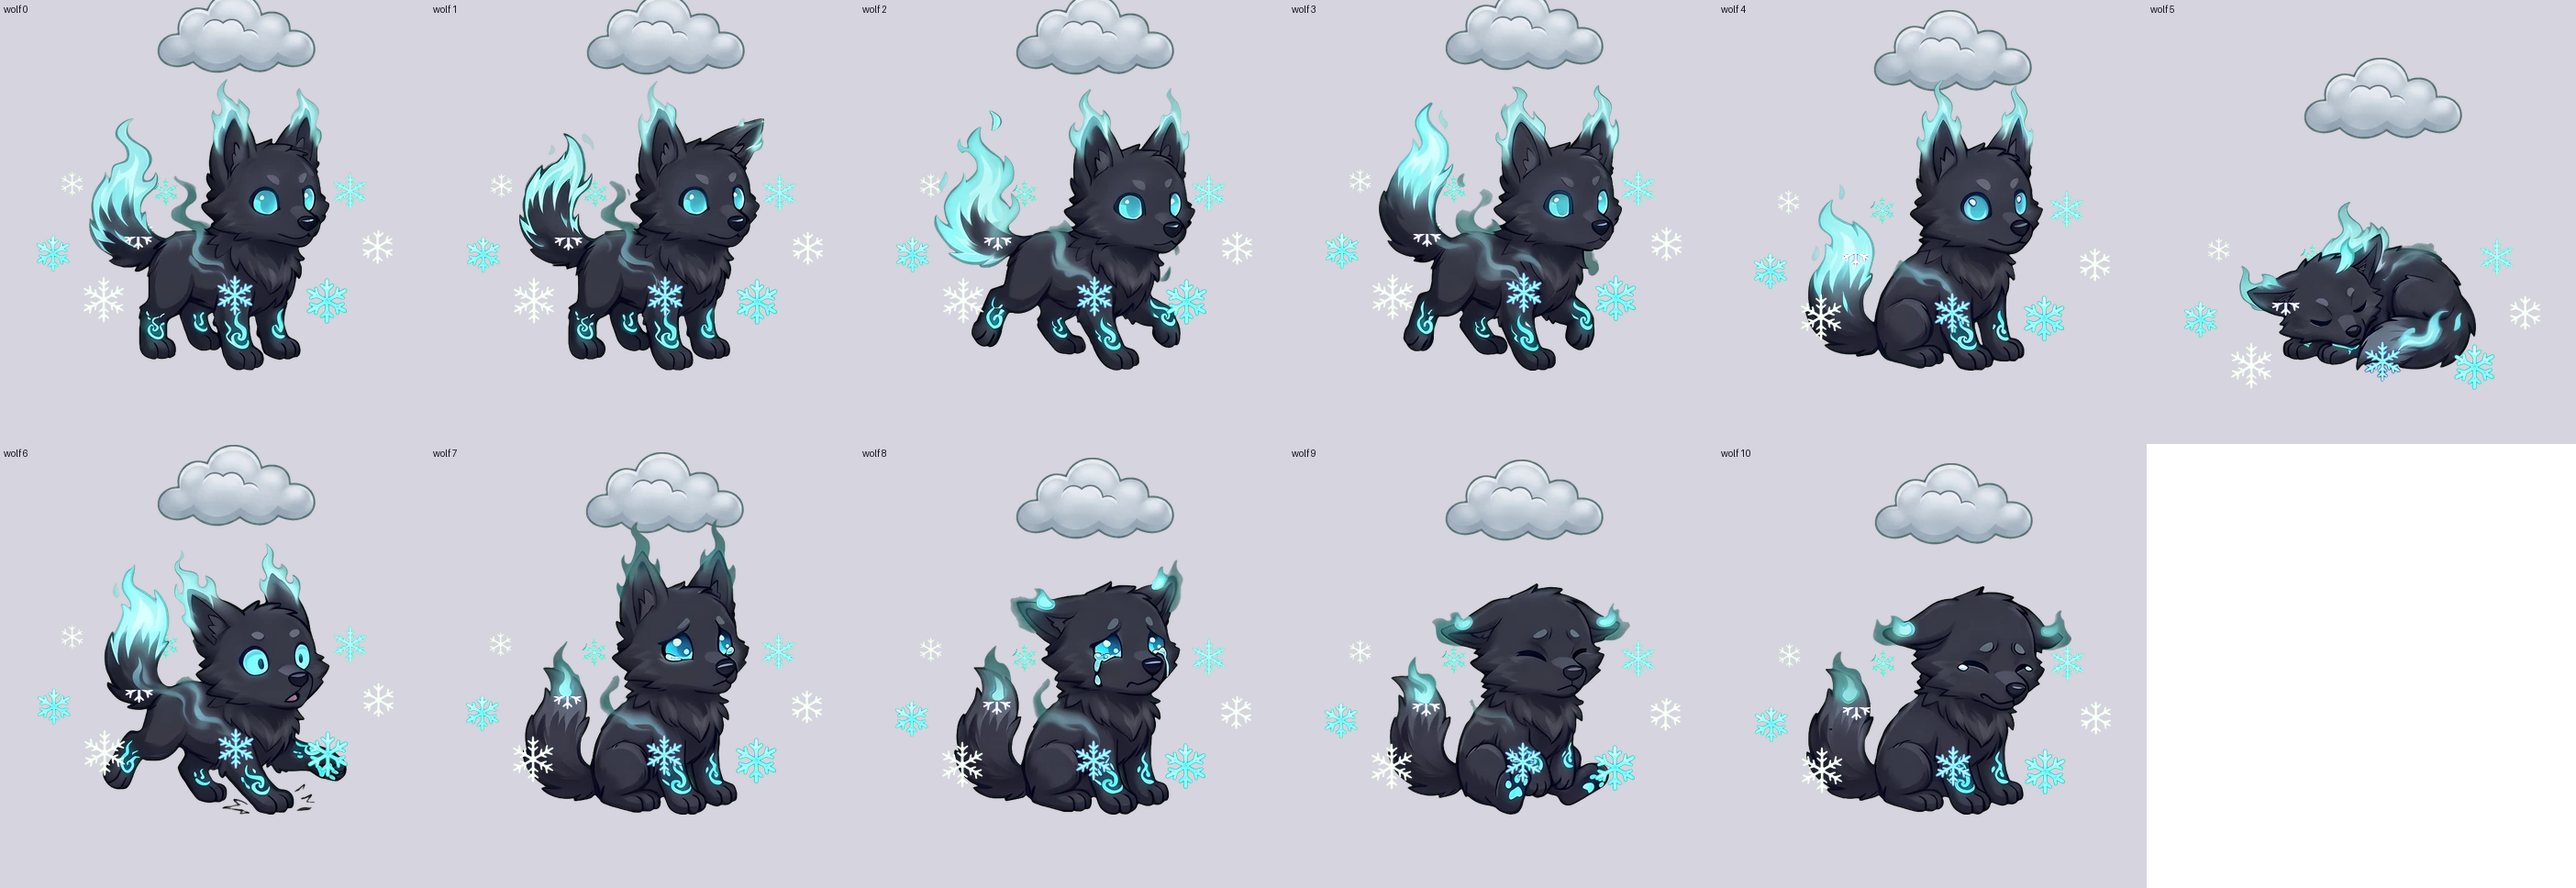
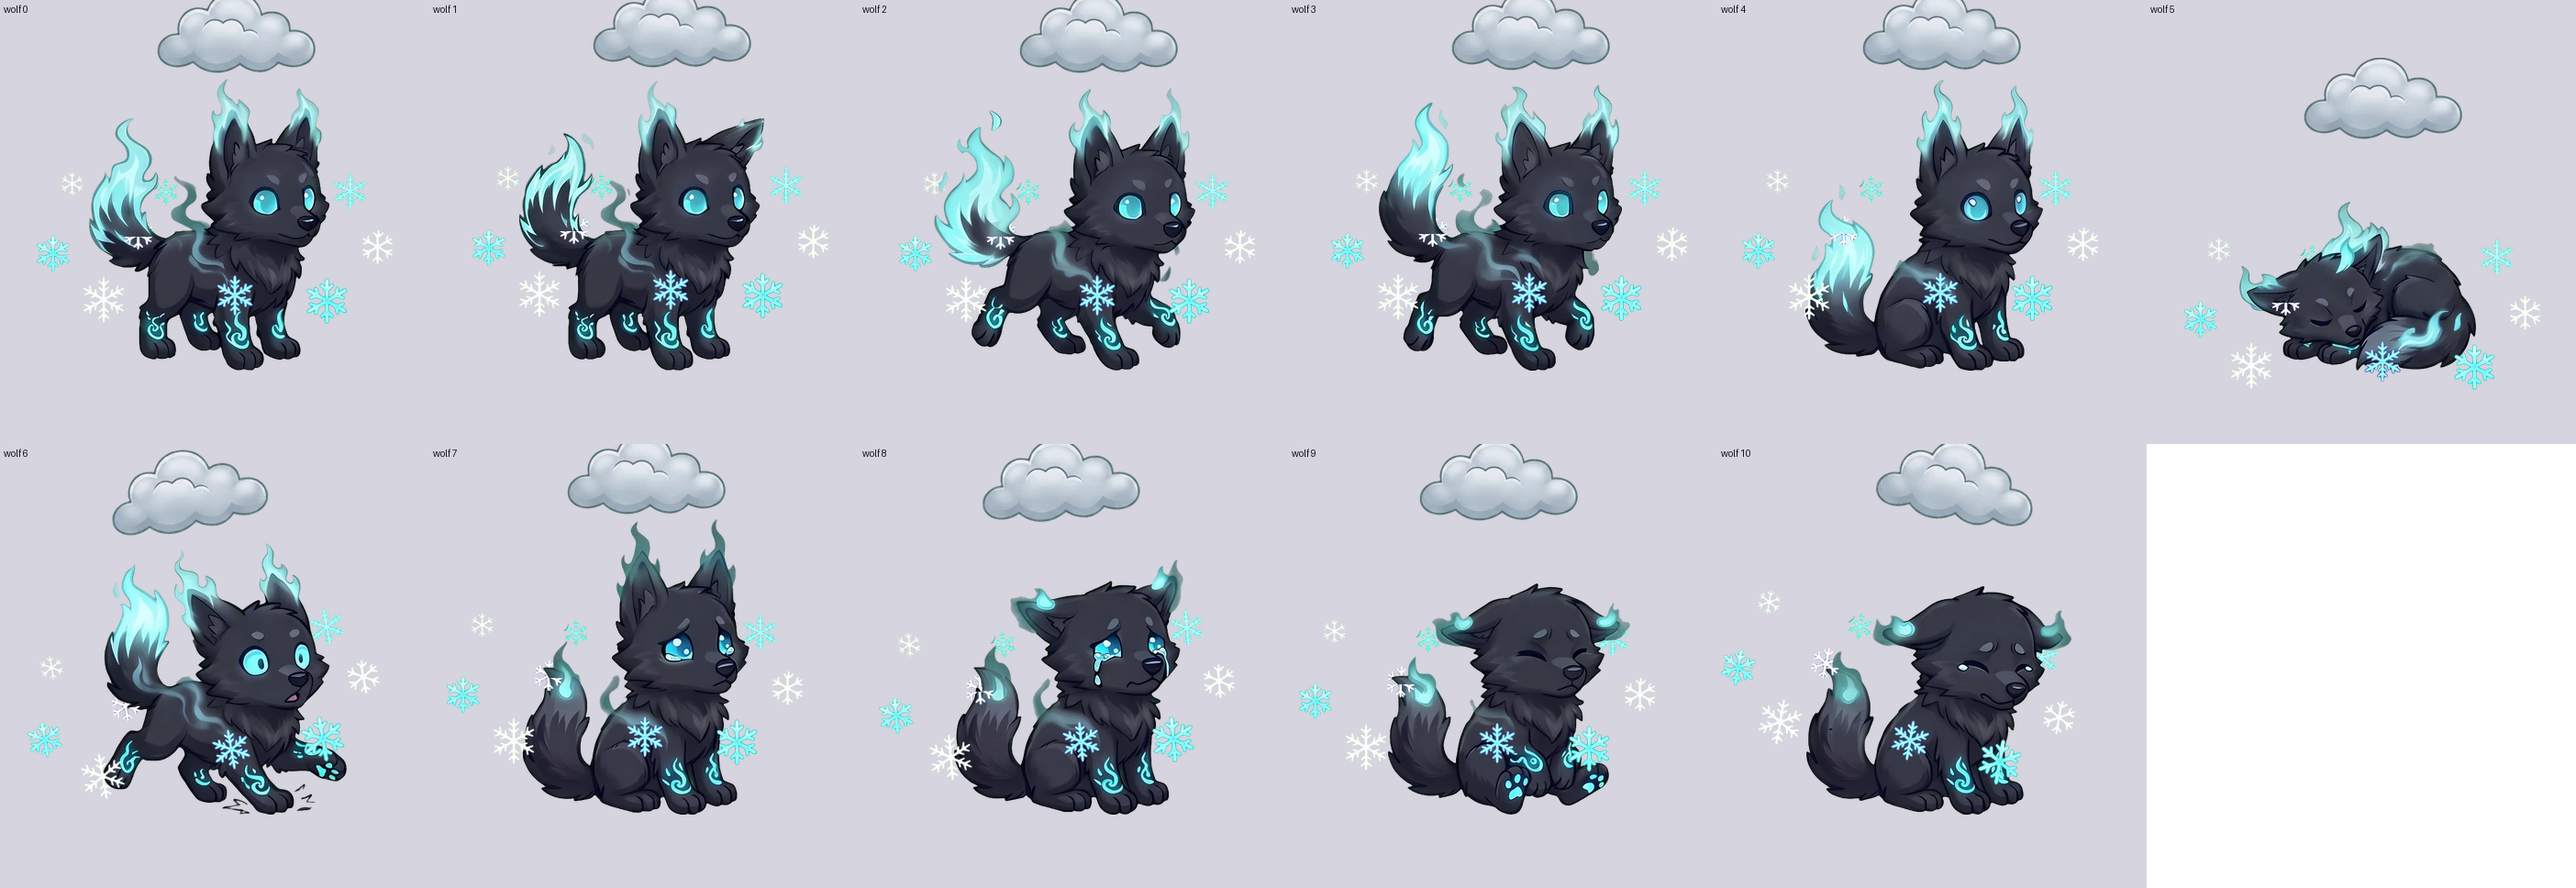
Pet clothes, batch 4: wyvern goggles, horn rings, scarf; pw_cloud head-anchored (LEAD's rule); keyer drops white sticker rims; prompts ask for no rim

diff --git a/quest-board/tools/pet_wear.py b/quest-board/tools/pet_wear.py
@@ -5,6 +5,7 @@
   pet_wear.py cut <sheet.png> <piece id> <kind>          kind: head | neck | body | base | aura (base: the slime's base band pieces,
                                                          cells by the body fit, placed on the neck anchor)
   pet_wear.py check <piece id> <out.png>                 the piece worn on every frame, as the game places it
+  pet_wear.py headaura <piece id>                        an aura placed on the head anchor (mass centre where the head is null)
 
 A template is a 2048 x 2048 flat green sheet with the given frames of the pet (pgx_<pet>_<f>, or the dogs' dgx_<dog>_<f> when
 <pet> is chopstick or pluto, or "dogs" for both dogs' frames) in a grid, every frame at one scale, each frame turned into a single
@@ -88,7 +89,14 @@ def keyed(rgb, pet):
     dark = mx < .3
     # dark outline pixels squeezed between key colour and green belong to the template, not the piece
     edge = dark & ndi.binary_dilation(tpl, iterations=6) & ndi.binary_dilation(grn, iterations=6)
-    return grn | tpl | edge
+    # a white sticker border the painter sometimes draws round the figure: near-white, colourless, between key and green
+    cand = (mx > .78) & (sat < .2) & ndi.binary_dilation(tpl, iterations=34) & ndi.binary_dilation(grn, iterations=34)
+    lab, n = ndi.label(cand)
+    rim = np.zeros_like(cand)
+    if n:
+        sz = ndi.sum(cand, lab, range(1, n + 1))
+        rim = np.isin(lab, 1 + np.flatnonzero(sz > 20000))  # only a band round the whole figure, never a piece's white part
+    return grn | tpl | edge | rim
 
 
 def anchor(pet, f, kind):
@@ -197,12 +205,19 @@ def check(pid, out):
                 if hide or not c.get("pivot"):
                     continue
                 im = Image.open(os.path.join(APP, "ppc_%s_%d.webp" % (pid, c["cell"]))).convert("RGBA")
-                a = anc[akind] if kind != "aura" else list(ndi.center_of_mass(np.asarray(fr)[..., 3] > 128))[::-1]
-                deg = (a[2] if len(a) > 2 else 0)
-                if c["frame"] is not None and kind != "aura" and not (p in ("chopstick", "pluto")):
-                    ref = art["pets"][p]["anchors"][c["frame"]].get(akind) or [0, 0, 0]
-                    deg -= ref[2] if len(ref) > 2 else 0
                 px, py = c["pivot"]
+                if kind == "aura" and d.get("anchor") == "head" and anc.get("head"):
+                    a = anc["head"]
+                elif kind == "aura":
+                    a = list(ndi.center_of_mass(np.asarray(fr)[..., 3] > 128))[::-1]
+                    px, py = c.get("pivotAura", c["pivot"])
+                else:
+                    a = anc[akind]
+                deg = (a[2] if len(a) > 2 else 0)
+                rk = "head" if (kind == "aura" and d.get("anchor") == "head" and anc.get("head")) else akind
+                if c["frame"] is not None and (kind != "aura" or rk == "head") and not (p in ("chopstick", "pluto")):
+                    ref = art["pets"][p]["anchors"][c["frame"]].get(rk) or [0, 0, 0]
+                    deg -= ref[2] if len(ref) > 2 else 0
                 big = Image.new("RGBA", (im.size[0] * 3, im.size[1] * 3))
                 big.alpha_composite(im, (im.size[0], im.size[1]))
                 rot = big.rotate(-deg, center=(im.size[0] + px, im.size[1] + py), resample=Image.BICUBIC)
@@ -224,9 +239,30 @@ def check(pid, out):
     print(out, len(tiles), "frames")
 
 
+def headaura(pid):
+    """an aura that belongs above the head (LEAD 2026-11-18): "anchor": "head", pivot on the frame's head anchor (turned by
+    the head-angle delta); where the head anchor is null (sleep) it falls back to the mass centre with pivotAura."""
+    p = os.path.join(ROOT, "data", "pet_clothes.json")
+    d = json.load(open(p))
+    e = d[pid]
+    assert e["kind"] == "aura"
+    for c in e["cells"]:
+        fr = np.asarray(frame_img(c["pet"], c["frame"]))[..., 3] > 128
+        cy, cx = ndi.center_of_mass(fr)
+        h = anchor(c["pet"], c["frame"], "head")
+        pa = c.get("pivotAura", c["pivot"])
+        c["pivotAura"] = pa
+        c["pivot"] = [round(pa[0] + h[0] - cx, 1), round(pa[1] + h[1] - cy, 1)]
+    e["anchor"] = "head"
+    json.dump(dict(sorted(d.items())), open(p, "w"), indent=1)
+    print(pid, "head-anchored", [c["pivot"] for c in e["cells"]])
+
+
 if __name__ == "__main__":
     if sys.argv[1] == "template":
         template(sys.argv[2], sys.argv[3], sys.argv[4], float(sys.argv[5]) if len(sys.argv) > 5 else 1.0)
+    elif sys.argv[1] == "headaura":
+        headaura(sys.argv[2])
     elif sys.argv[1] == "check":
         check(sys.argv[2], sys.argv[3])
     else:

diff --git a/shots/pending_art/pets/clothes_paint.py b/shots/pending_art/pets/clothes_paint.py
@@ -68,8 +68,9 @@ def prompt(pid, pet, kind, what):
            ("Keep the %s %s exactly as it is: the same pose, size, place and flat %s colour" % (k, n, k))
     fitn = " The same piece on every figure, fitted to each pose and body." if many else ""
     return ("Edit Image 1. %s, and the same flat green background. Only add one thing to %s: %s.%s Paint only that piece, in full "
-            "colour with clean dark outlines and soft cartoon shading, the same sticker style; do not paint the figure, it stays "
-            "flat %s. Nothing green and no %s in the piece. No text, no letters, no logos." % (keep, who, what, fitn, k, k))
+            "colour with clean dark outlines and soft cartoon shading, the same cartoon style; do not paint the figure, it stays "
+            "flat %s, with no white border or sticker outline round it. Nothing green and no %s in the piece. No text, no "
+            "letters, no logos." % (keep, who, what, fitn, k, k))
 
 
 if __name__ == "__main__":
